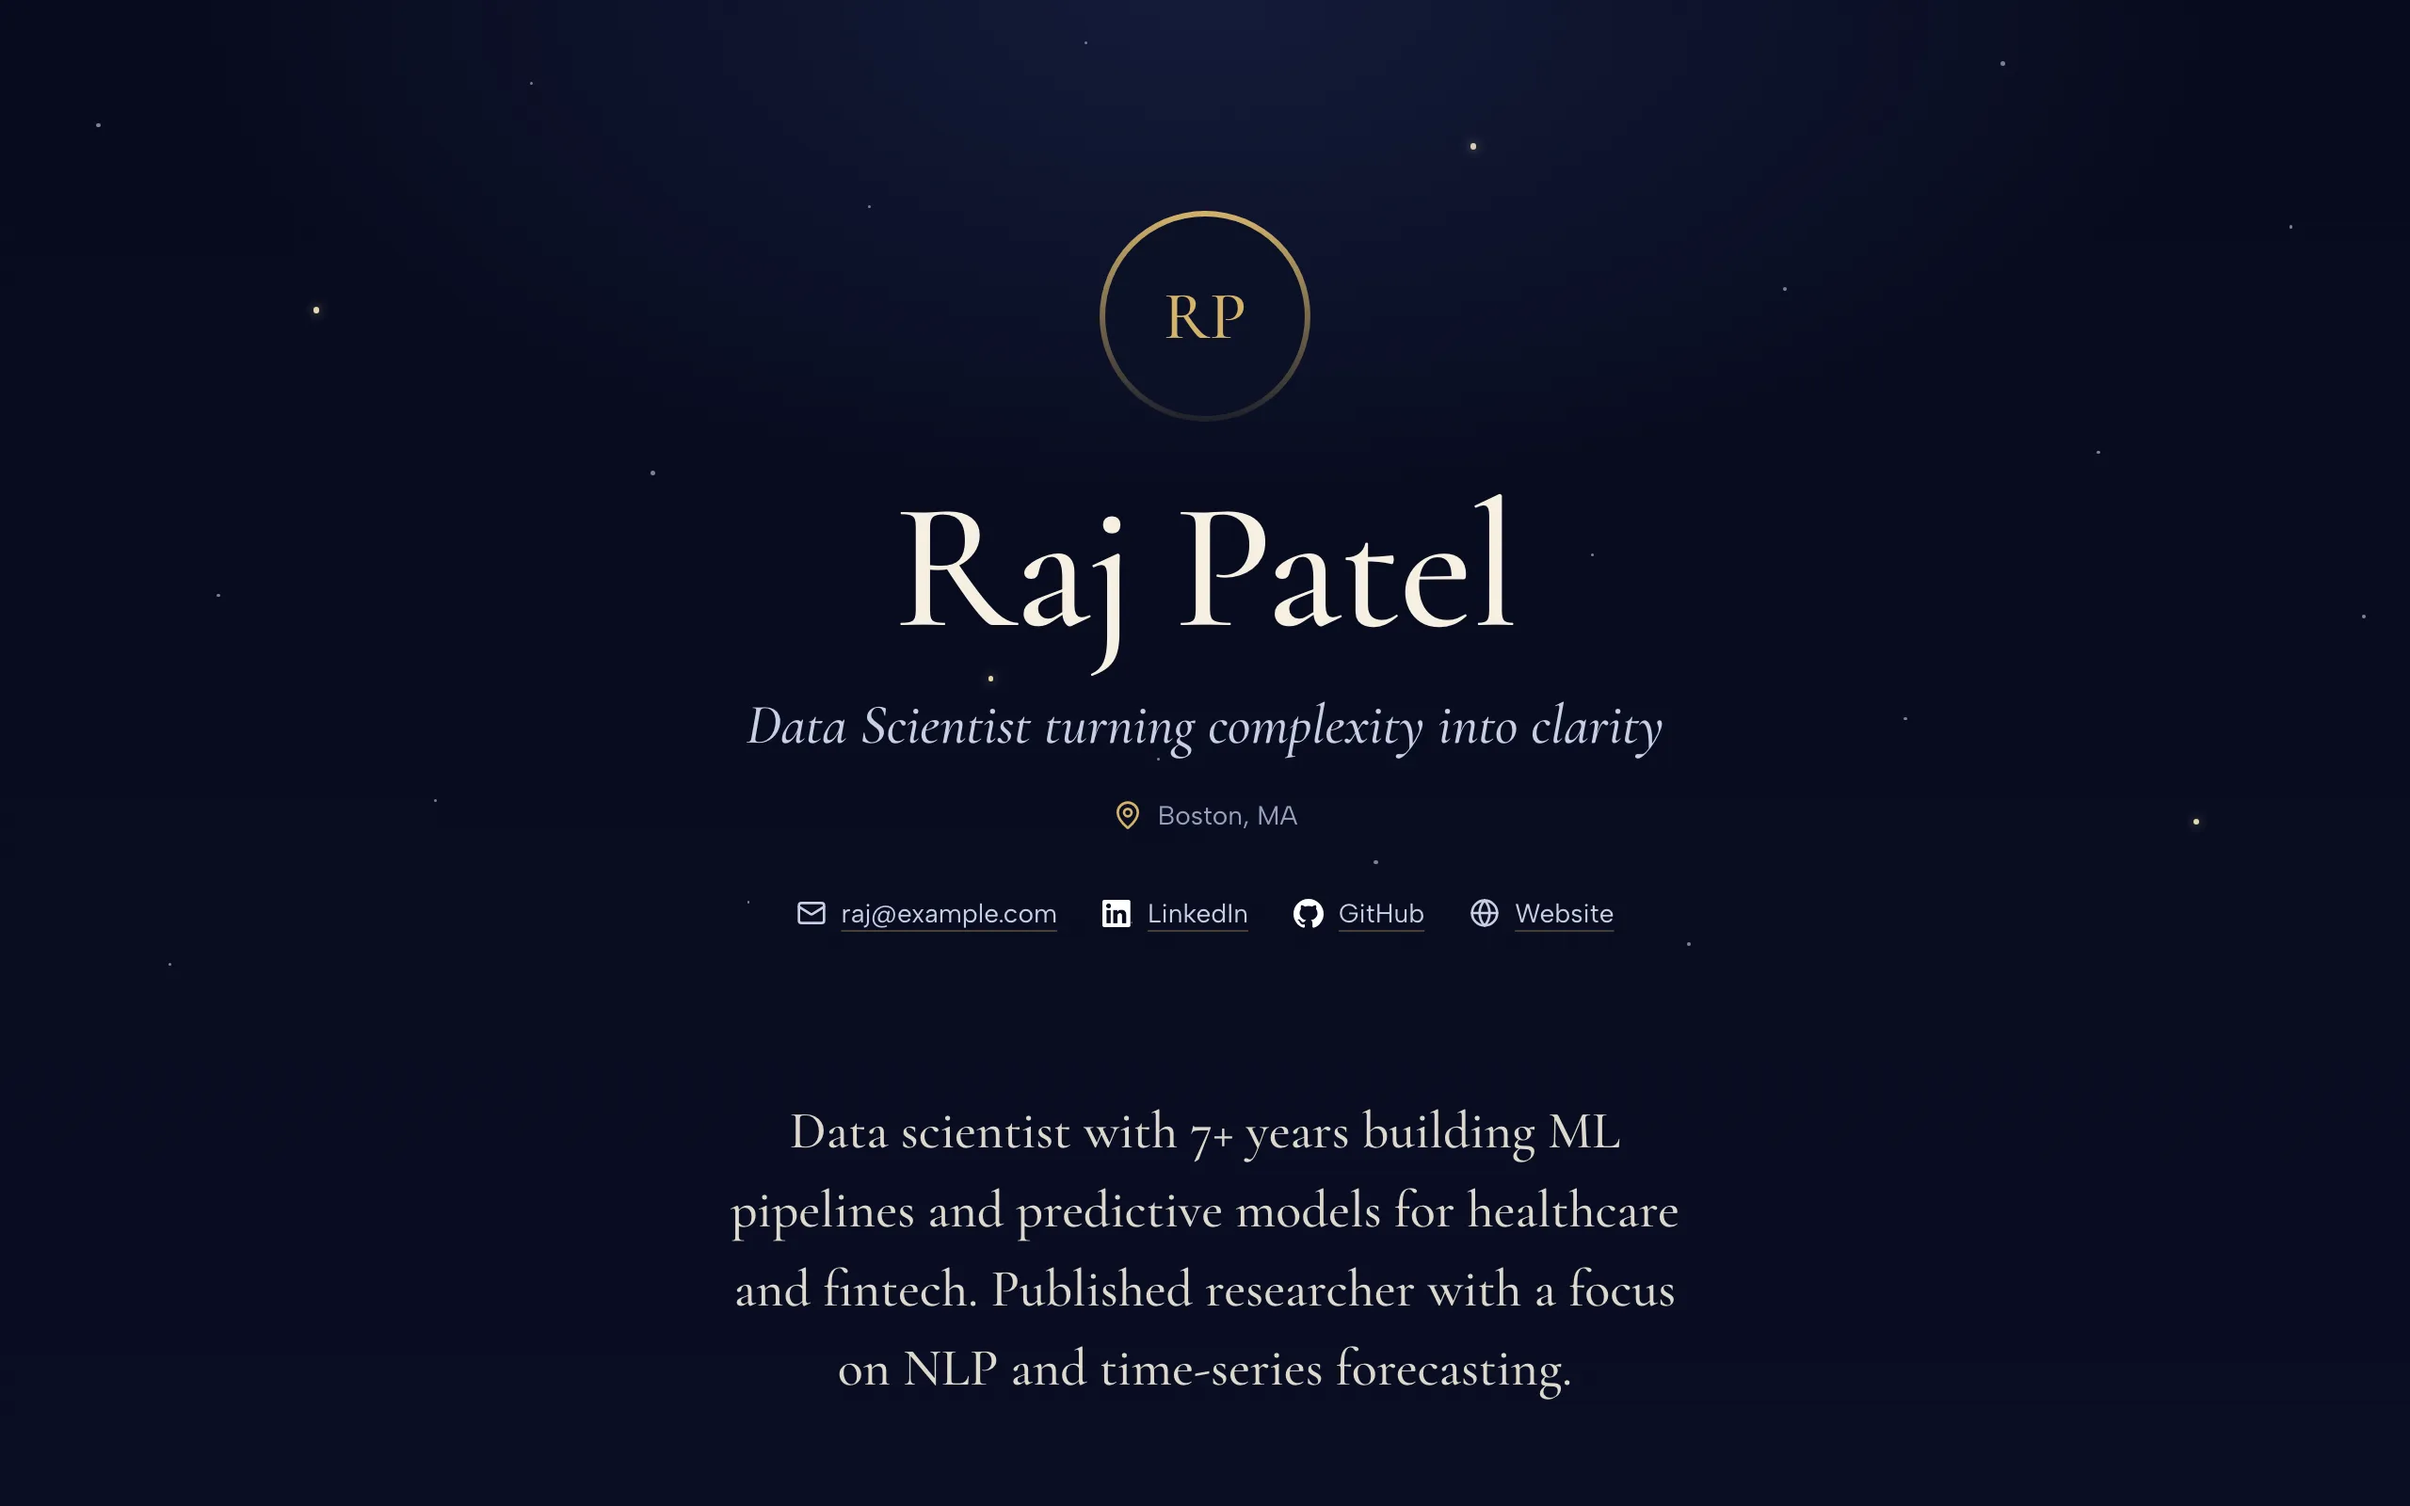
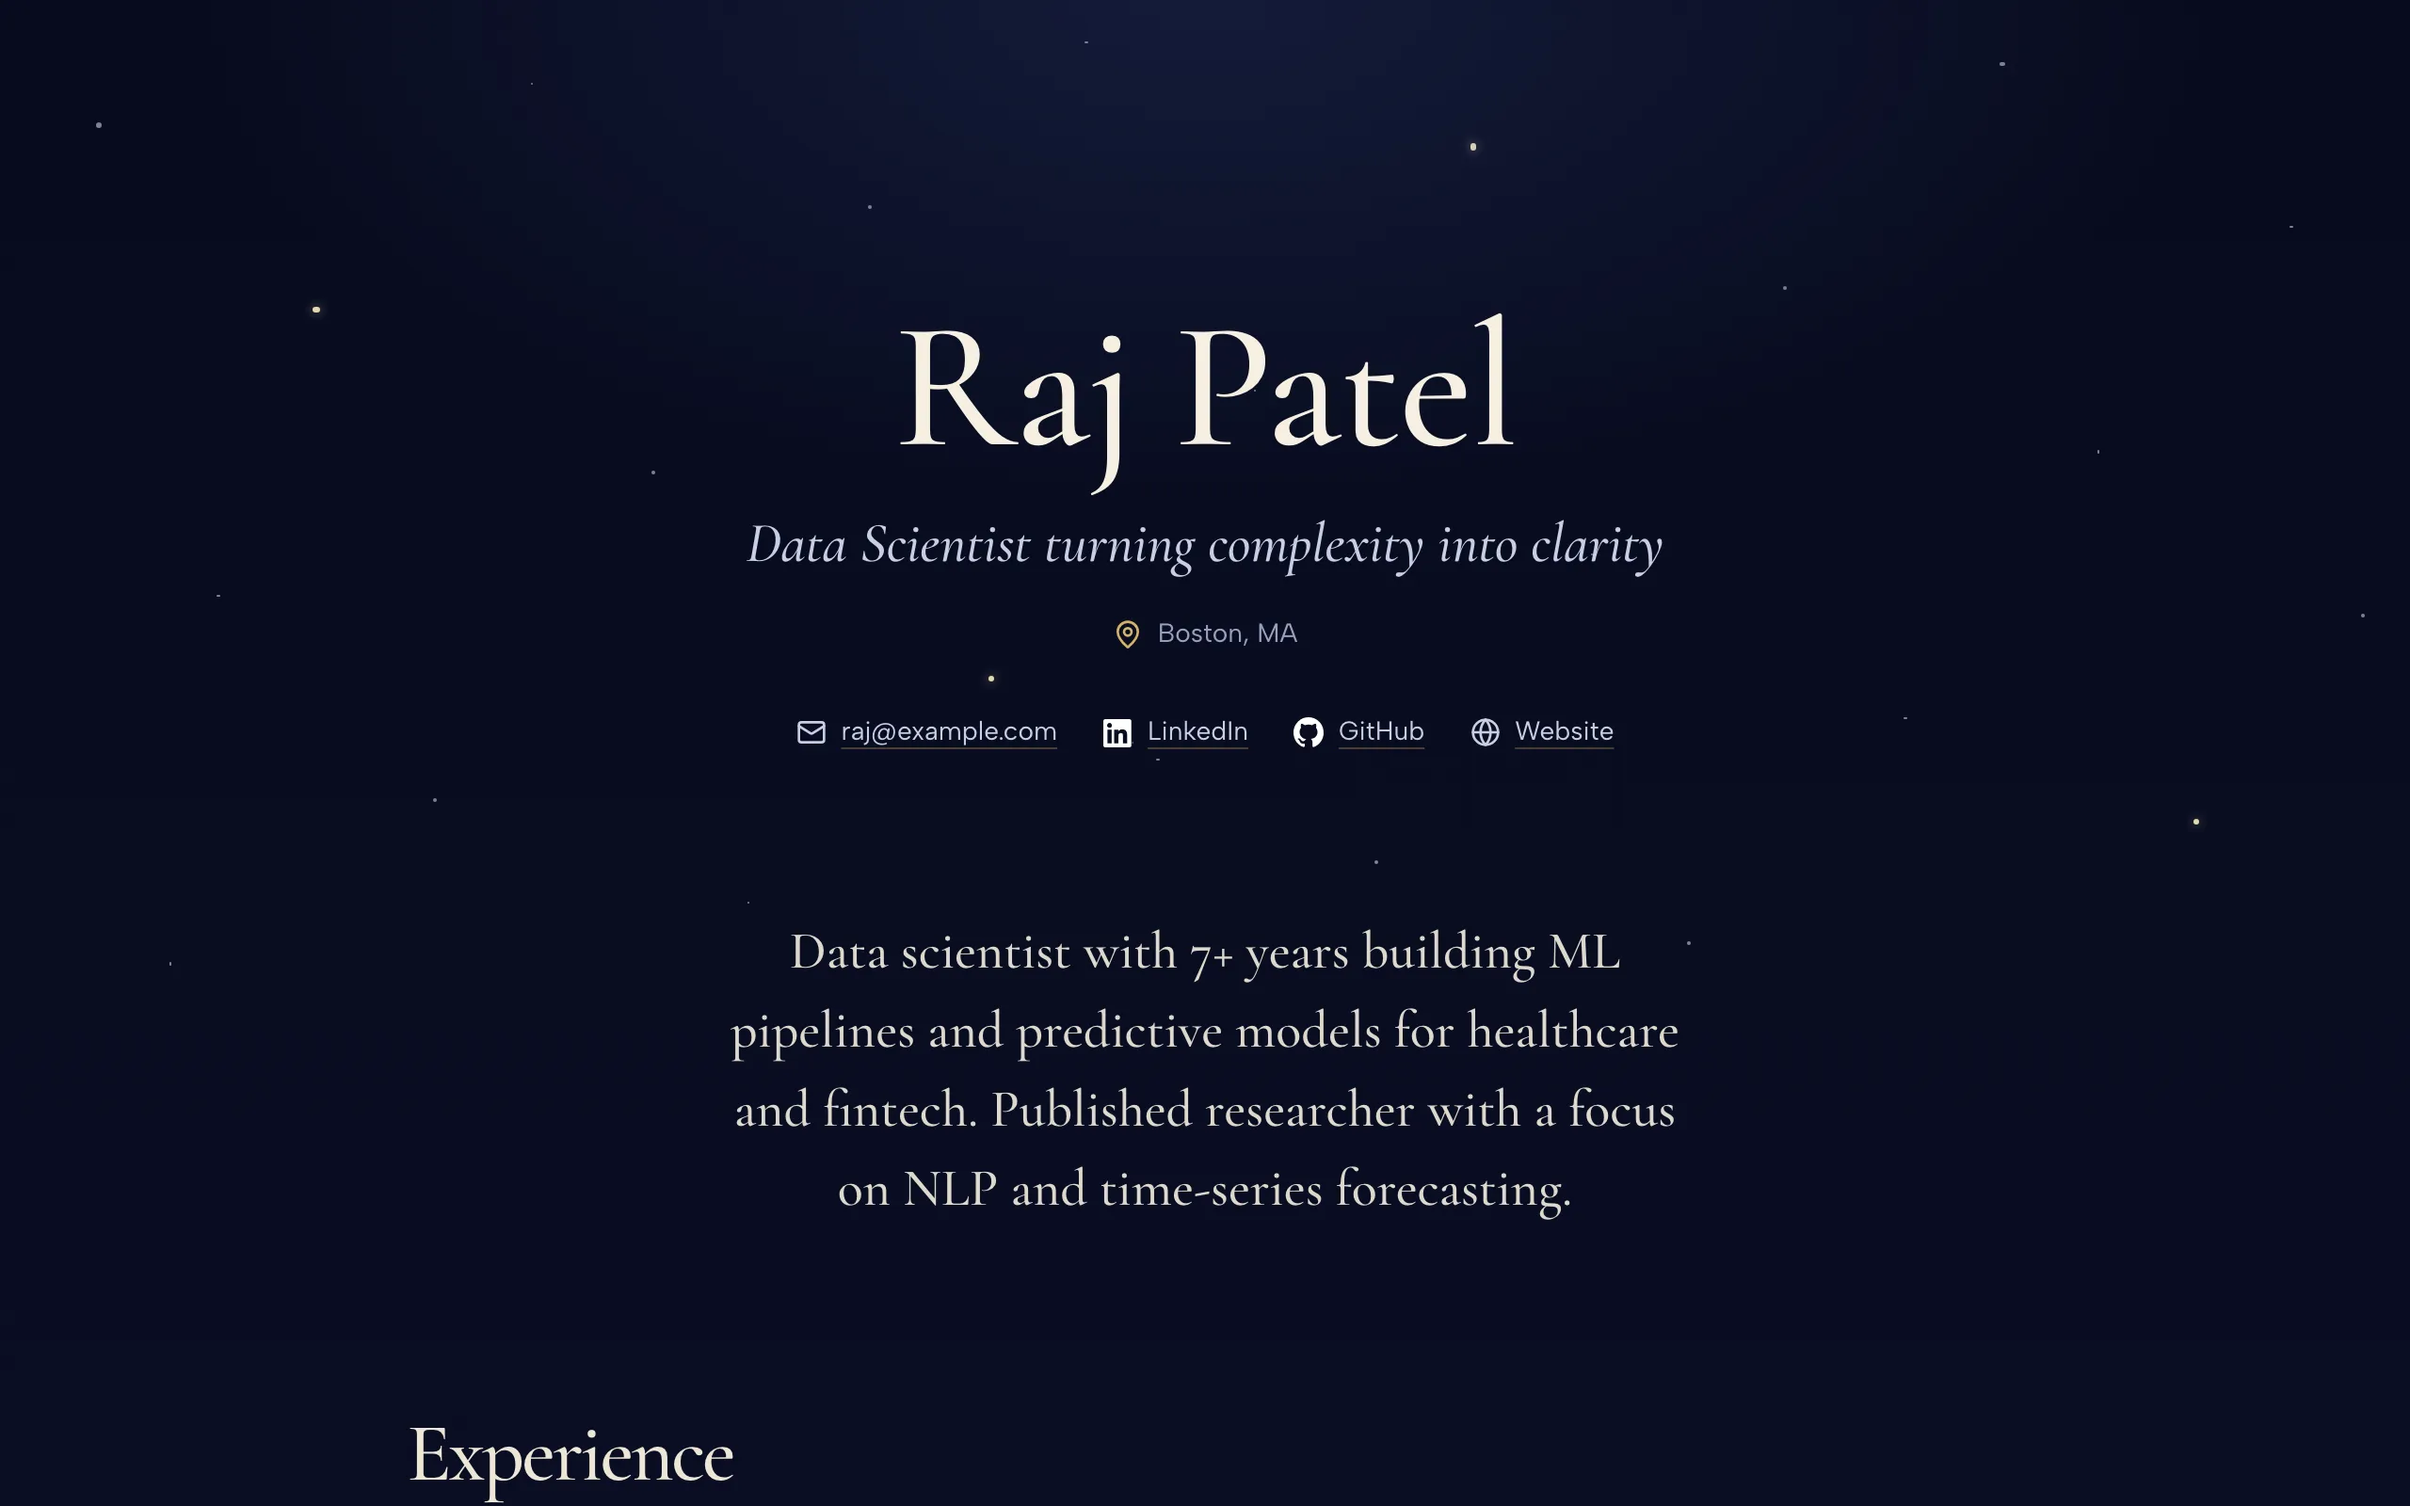
style(templates): drop initials circle from midnight
The gold initials ring was filler: resumes carry no photo. Without an avatar the name now opens the header lower in the sky; a real photo still gets the gold ring.

diff --git a/components/templates/Midnight.tsx b/components/templates/Midnight.tsx
@@ -2,7 +2,7 @@ import { ArrowUpRight, MapPin } from "lucide-react";
 import type React from "react";
 import { ShareBar } from "@/components/ShareBar";
 import { getContactLinks } from "@/lib/templates/contact-links";
-import { formatDateRange, formatShortDate, formatYear, getInitials } from "@/lib/templates/helpers";
+import { formatDateRange, formatShortDate, formatYear } from "@/lib/templates/helpers";
 import type { ResumeContent } from "@/lib/types/database";
 import type { TemplateProps } from "@/lib/types/template";
 import { getContactIcon } from "./shared/ContactIcon";
@@ -85,9 +85,11 @@ function Header({ content, profile }: TemplateProps) {
   const links = getContactLinks(content.contact).filter((l) => l.type !== "location");
 
   return (
-    <header className="relative flex flex-col items-center text-center pt-20 md:pt-28 pb-20">
-      <div className="w-24 h-24 md:w-28 md:h-28 rounded-full p-[3px] bg-linear-to-b from-[#D4B26A] to-[#D4B26A]/10 mb-8">
-        {profile.avatar_url ? (
+    <header
+      className={`relative flex flex-col items-center text-center pb-20 ${profile.avatar_url ? "pt-20 md:pt-28" : "pt-28 md:pt-40"}`}
+    >
+      {profile.avatar_url && (
+        <div className="w-24 h-24 md:w-28 md:h-28 rounded-full p-[3px] bg-linear-to-b from-[#D4B26A] to-[#D4B26A]/10 mb-8">
           <img
             src={profile.avatar_url}
             alt={`Portrait of ${content.full_name}`}
@@ -97,15 +99,8 @@ function Header({ content, profile }: TemplateProps) {
             decoding="async"
             className="w-full h-full rounded-full object-cover"
           />
-        ) : (
-          <div
-            className="w-full h-full rounded-full bg-[#0B1026] flex items-center justify-center font-display-mn text-4xl text-[#D4B26A]"
-            aria-hidden="true"
-          >
-            {getInitials(content.full_name)}
-          </div>
-        )}
-      </div>
+        </div>
+      )}
 
       <h1 className="font-display-mn font-medium text-6xl md:text-8xl leading-[0.95] tracking-[-0.01em] text-[#F5EFE1] break-words max-w-full">
         {content.full_name}
